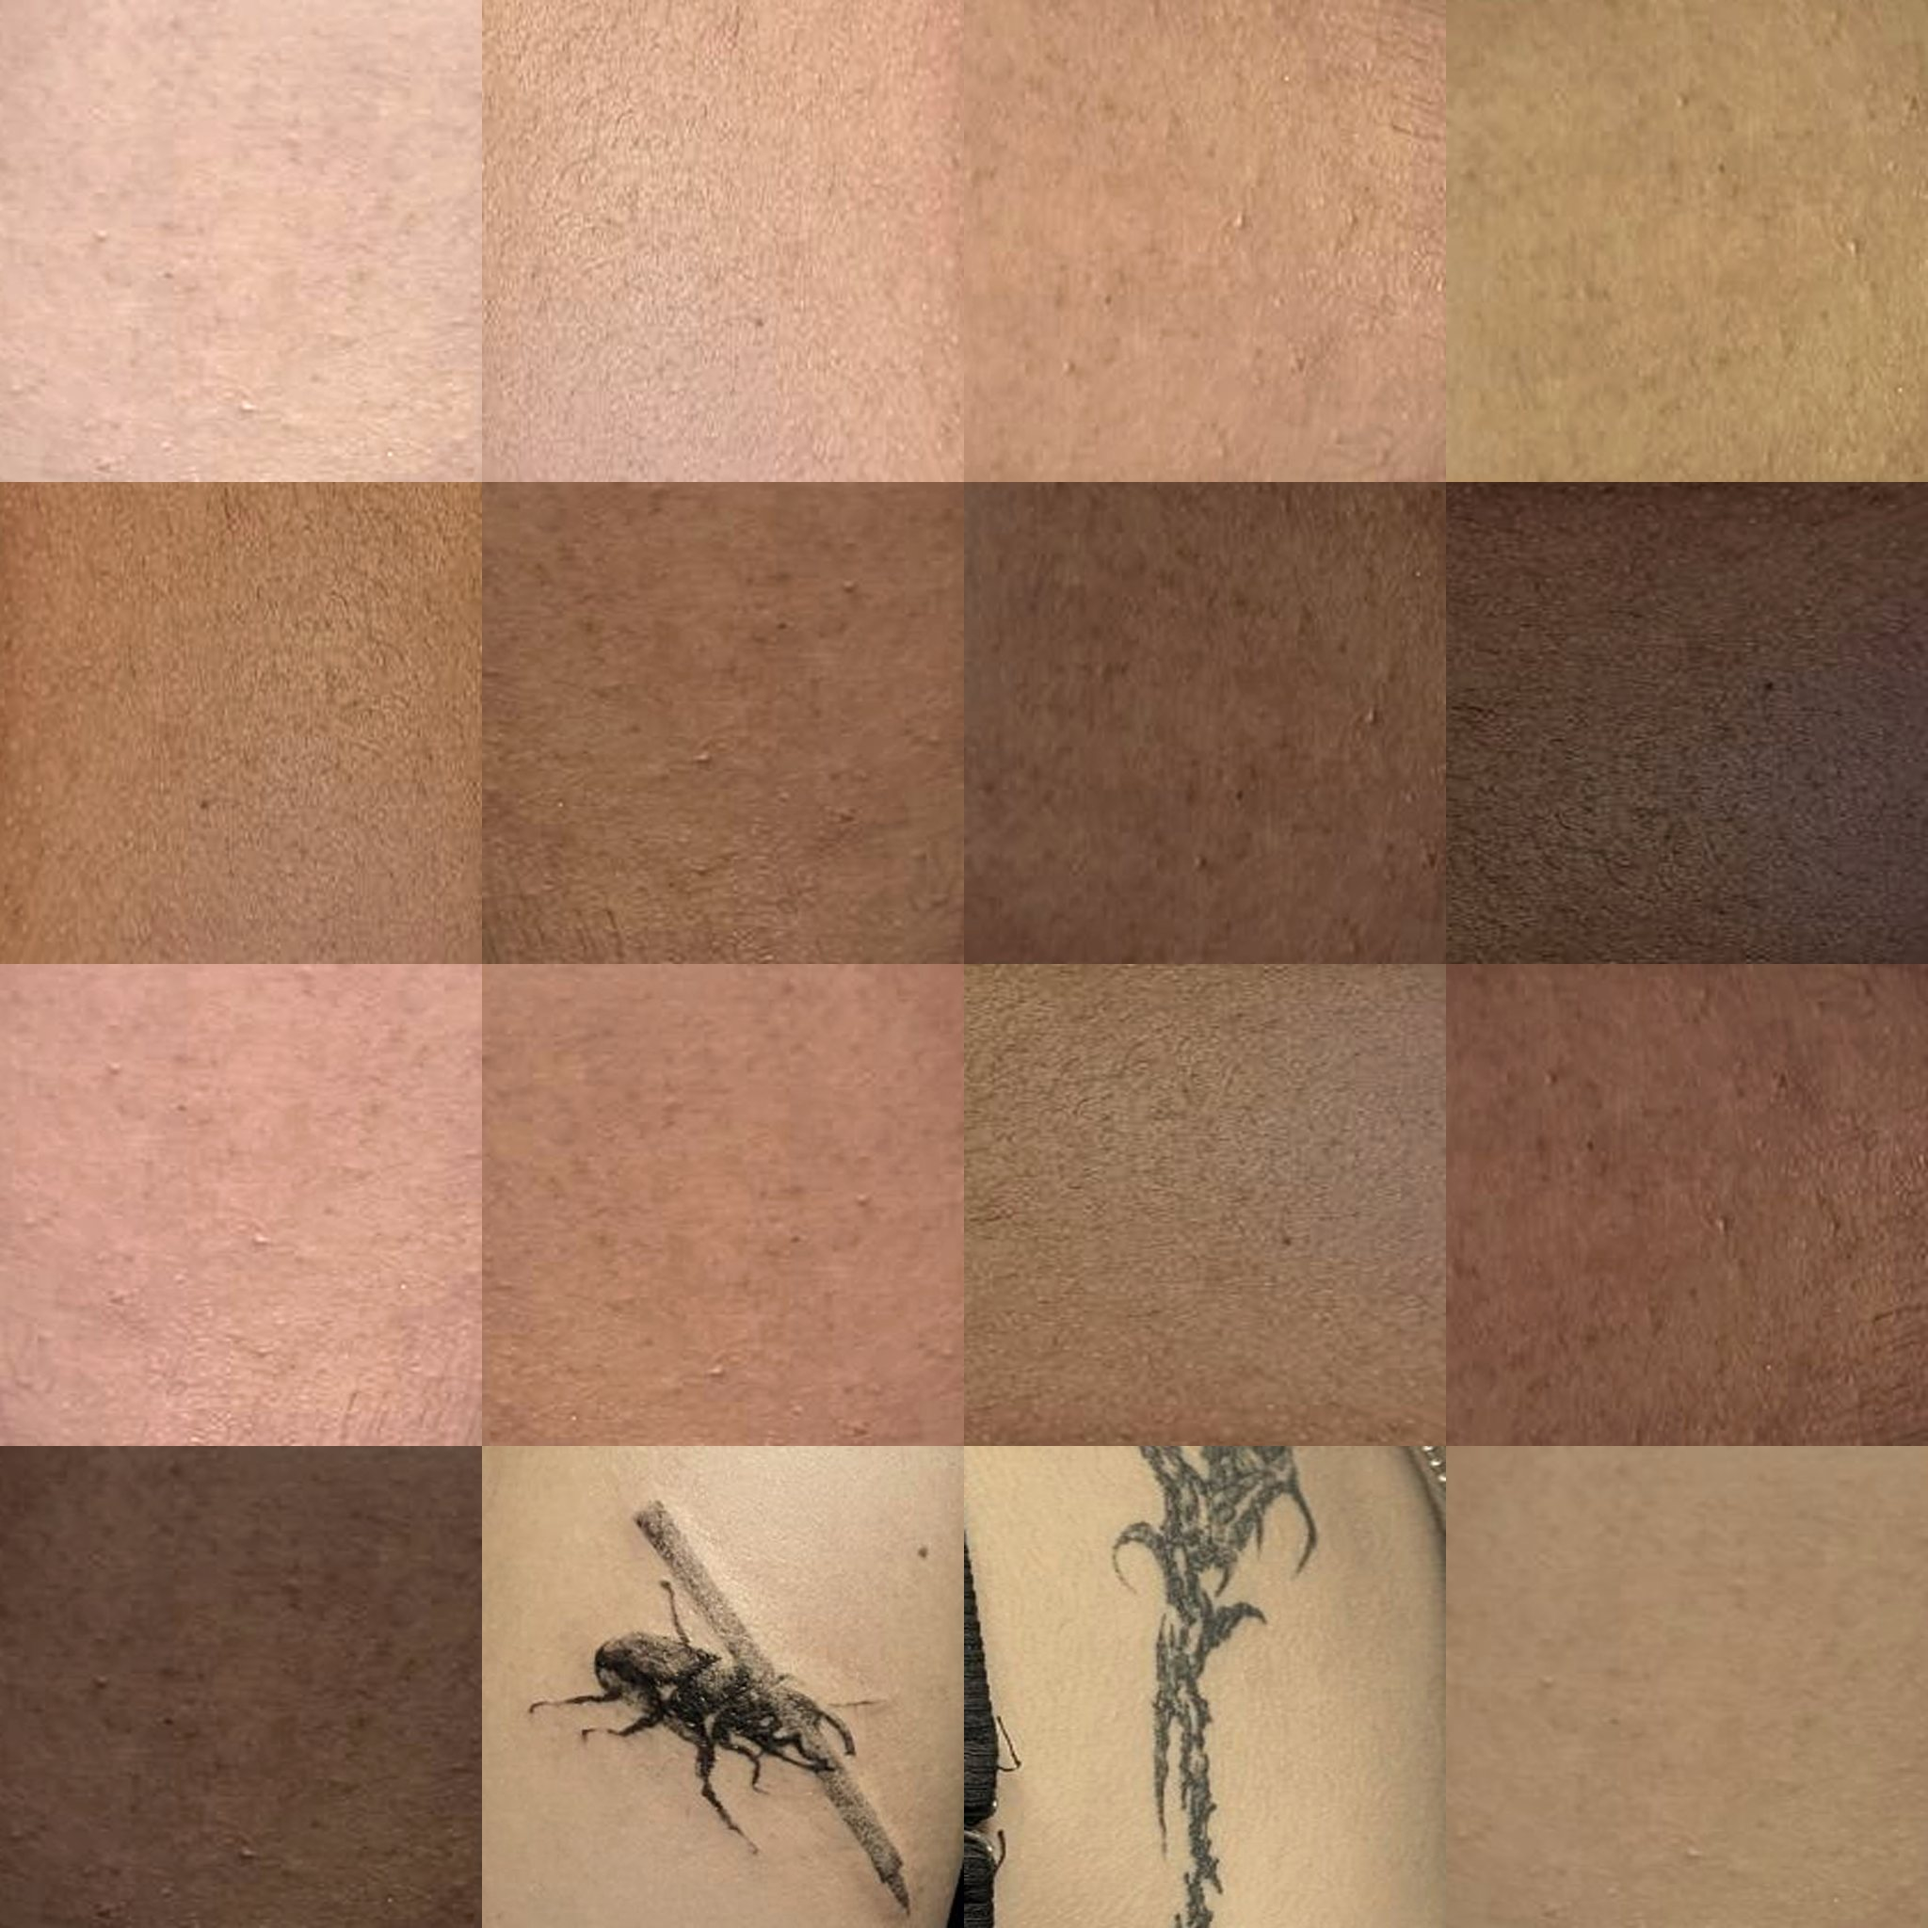
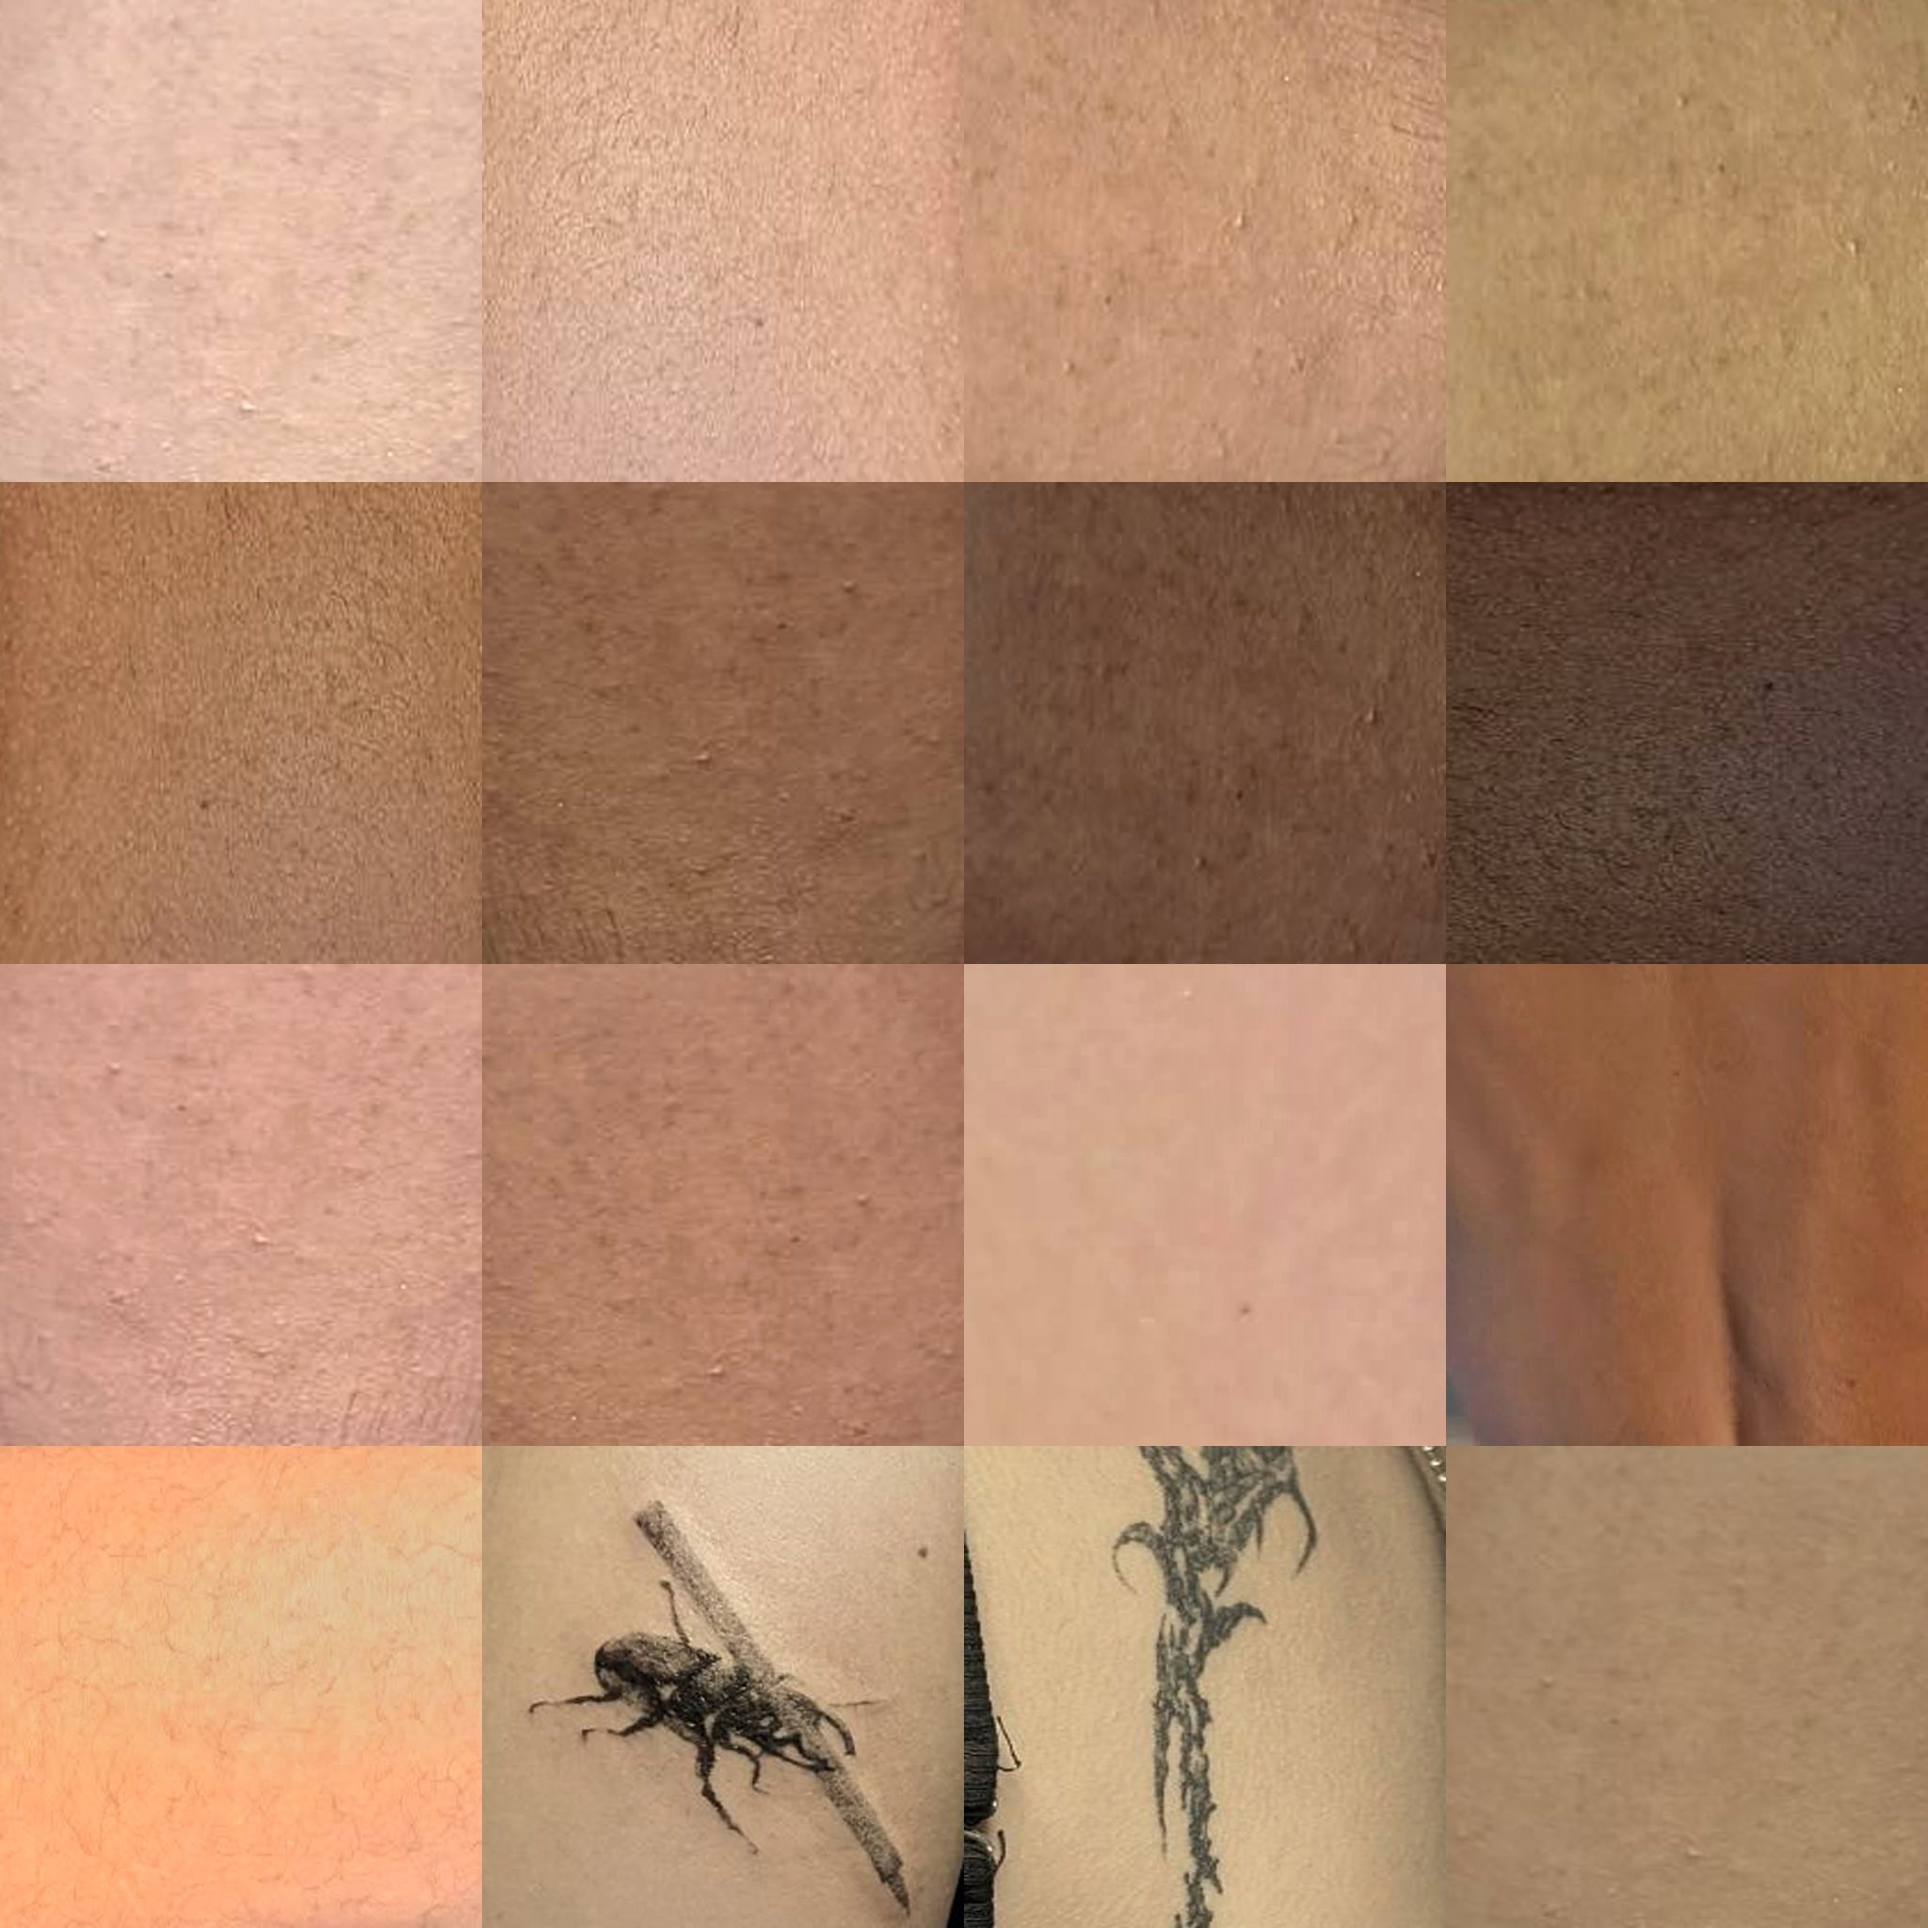
Real lots 01–05 with participants' skin in the texture; TBA handling
Claude-Session: https://claude.ai/code/session_013cRnyH9yUE3vycbh8rPGM8

Changed region(s): [[0.5, 0.5, 1.0, 0.75], [0.0, 0.75, 0.25, 1.0]]

diff --git a/index.html b/index.html
@@ -133,7 +133,7 @@ input:focus{border-color:var(--fg);outline:none}
 
   <div class="stage">
     <aside class="panel left" aria-label="Lots">
-      <div class="ph">Inventory <small id="invc">8 lots · preview</small></div>
+      <div class="ph">Inventory <small id="invc">5 lots · more coming</small></div>
       <div class="inv" id="inv"></div>
     </aside>
 
@@ -183,7 +183,7 @@ input:focus{border-color:var(--fg);outline:none}
           <div class="ph" style="padding:0 0 6px">Top bids <small id="boardnote"></small></div>
           <div class="board" id="board"></div>
         </div>
-        <p class="note">Preview lots: the real lots and sellers are revealed on 30 Nov. Bids placed now are pre-registrations; each one is confirmed by email or Instagram DM. <a href="about.html#rules" style="color:inherit">Rules</a></p>
+        <p class="note">Lots are still being finalised and more are coming before 30 Nov. Bids placed now are pre-registrations; each one is confirmed by email or Instagram DM. Every seller can refuse a design. <a href="about.html#rules" style="color:inherit">Rules</a></p>
       </div>
     </aside>
   </div>
@@ -205,22 +205,20 @@ const RAR=[
   {n:"Contraband",c:"--r-contraband",at:5000}
 ];
 const LOTS=[
-  {no:"01",part:"Left Forearm",  p:[ 0.56,1.43, 0.03],tile:0, size:"7 × 5 cm", float:0.012,start:180},
-  {no:"02",part:"Right Upper Arm",p:[-0.30,1.46, 0.05],tile:5, size:"6 × 6 cm", float:0.071,start:95},
-  {no:"03",part:"Upper Back",    p:[ 0.00,1.36,-0.13],tile:8, size:"10 × 8 cm",float:0.004,start:620},
-  {no:"04",part:"Sternum",       p:[ 0.00,1.30, 0.13],tile:2, size:"5 × 9 cm", float:0.026,start:260},
-  {no:"05",part:"Right Thigh",   p:[-0.11,0.66, 0.08],tile:9, size:"9 × 9 cm", float:0.150,start:1150},
-  {no:"06",part:"Left Calf",     p:[ 0.12,0.32,-0.07],tile:6, size:"6 × 8 cm", float:0.390,start:40},
-  {no:"07",part:"Nape",          p:[ 0.00,1.56,-0.07],tile:4, size:"4 × 4 cm", float:0.003,start:2700},
-  {no:"08",part:"Left Ribs",     p:[ 0.15,1.16, 0.02],tile:10,size:"8 × 6 cm", float:0.044,start:330}
+  {no:"01",part:"Right Thigh",        p:[-0.11,0.62, 0.08],tile:10,size:"10–15 cm",       float:0.21, start:100, seller:"@linaschriever · Berlin",          off:"portraits, faces"},
+  {no:"02",part:"Back",               p:[ 0.00,1.30,-0.13],tile:11,size:"up to 25 cm",    float:0.04, start:100, seller:"Participant 02 · Berlin",         off:"political content, names, faces"},
+  {no:"03",part:"Outer Thigh · Cover-up",p:[-0.17,0.72,0.00],tile:5,size:"large, over an old tattoo",float:0.62,start:null,seller:"Participant 03 · Berlin",off:"to be announced"},
+  {no:"04",part:"Butt, Knee or Ankle",p:[-0.11,0.48, 0.07],tile:2, size:"up to 10 × 10 cm",float:0.009,start:111, seller:"@louis.difadv · Friedrichshain",   off:"faces of real people, hate symbols"},
+  {no:"05",part:"Left Calf",          p:[ 0.11,0.33,-0.06],tile:8, size:"to be announced",float:0.10, start:null,seller:"YZMA · the artist",              off:"hate symbols"}
 ];
-LOTS.forEach(l=>{l.seller="Participant "+l.no+" · Berlin";l.board=[]});
+LOTS.forEach(l=>{l.board=[]});
 
 const rarOf=v=>{let r=RAR[0];for(const x of RAR)if(v>=x.at)r=x;return r};
 const nextOf=v=>RAR.find(x=>x.at>v);
 const css=n=>getComputedStyle(document.documentElement).getPropertyValue(n).trim();
-const topBid=l=>l.board.length?l.board[0].v:l.start;
-const minBid=l=>l.board.length?topBid(l)+step(topBid(l)):l.start;
+const topBid=l=>l.board.length?l.board[0].v:(l.start||0);
+const eur=v=>v?"€"+v.toLocaleString("en"):"TBA";
+const minBid=l=>l.board.length?topBid(l)+step(topBid(l)):(l.start||0);
 const step=v=>Math.max(10,Math.ceil(v*0.05/5)*5);
 const wearName=f=>f<.07?"Factory New":f<.15?"Minimal Wear":f<.38?"Field-Tested":f<.45?"Well-Worn":"Battle-Scarred";
 const tilePos=t=>`${(t%4)*100/3}% ${Math.floor(t/4)*100/3}%`;
@@ -237,7 +235,7 @@ LOTS.forEach((l,i)=>{
 });
 function paintTile(l){
   const r=rarOf(topBid(l));l.el.style.setProperty("--rc",`var(${r.c})`);
-  l.el.querySelector(".px").textContent="€"+topBid(l).toLocaleString("en");
+  l.el.querySelector(".px").textContent=eur(topBid(l));
 }
 function select(i,turn){
   sel=i;const l=LOTS[i],t=topBid(l),r=rarOf(t),nx=nextOf(t);
@@ -245,13 +243,13 @@ function select(i,turn){
   document.documentElement.style.setProperty("--rc",`var(${r.c})`);
   $("pname").innerHTML=`<span class="star">★</span> Human | ${l.part}`;
   $("prar").textContent=`${r.n} Skin · ${wearName(l.float)}`;
-  $("pstats").innerHTML=`<span>Lot <b>${l.no}</b></span><span>Float <b>${l.float.toFixed(4)}</b></span><span>Area <b>${l.size}</b></span><span>Seller <b>${l.seller}</b></span>`;
+  $("pstats").innerHTML=`<span>Lot <b>${l.no}</b></span><span>Float <b>${l.float.toFixed(4)}</b></span><span>Area <b>${l.size}</b></span><span>Seller <b>${l.seller}</b></span><span>Off-limits <b>${l.off}</b></span>`;
   $("pwear").style.left=Math.min(99,l.float*100)+"%";
-  $("clb").textContent=`Lot ${l.no} · €${t.toLocaleString("en")}`;
+  $("clb").textContent=`Lot ${l.no} · ${eur(t)}`;
   $("sheetlot").textContent=`Lot ${l.no} · ${l.part}`;
-  $("top").textContent="€"+t.toLocaleString("en");
-  const mn=minBid(l);$("toplab").textContent=l.board.length?"Top bid":"Start price";$("boardnote").textContent=l.board.length?"":"bidding opens 30.11";$("minb").textContent="€"+mn.toLocaleString("en");
-  $("amt").min=mn;$("amt").value=mn;
+  $("top").textContent=eur(t);
+  const mn=minBid(l);$("toplab").textContent=l.board.length?"Top bid":"Start price";$("boardnote").textContent=l.board.length?"":"bidding opens 30.11";$("minb").textContent=eur(mn);
+  $("amt").min=mn||1;$("amt").value=mn||"";
   $("tier").innerHTML=nx?`Next grade <b style="color:var(${nx.c})">${nx.n}</b> at €${nx.at.toLocaleString("en")}`:`Top grade reached`;
   $("board").innerHTML=l.board.slice(0,6).map((b,k)=>`<div class="row${b.me?" me":""}"><span>${k+1}</span><em>${esc(b.name)} <span>${esc(b.cc)}</span></em><b>€${b.v.toLocaleString("en")}</b></div>`).join("")||`<div class="row" style="background:var(--panel2);box-shadow:none"><span>–</span><em>No bids yet</em><b></b></div>`;
   $("msg").hidden=true;
@@ -262,6 +260,7 @@ document.querySelectorAll("[data-add]").forEach(b=>b.addEventListener("click",()
 $("f").addEventListener("submit",e=>{
   e.preventDefault();const l=LOTS[sel],v=Math.round(+$("amt").value),mn=minBid(l),m=$("msg");
   const err=t=>{m.className="msg err";m.textContent=t;m.hidden=false};
+  if(!l.start&&!l.board.length)return err("The start price for this lot is not set yet. Check back soon.");
   if(!(v>=mn))return err(`Bid at least €${mn.toLocaleString("en")}.`);
   if(!$("nick").value.trim())return err("Add a name or nickname.");
   if(!$("contact").value.trim())return err("Add your Instagram or email so we can reach you if you win.");
